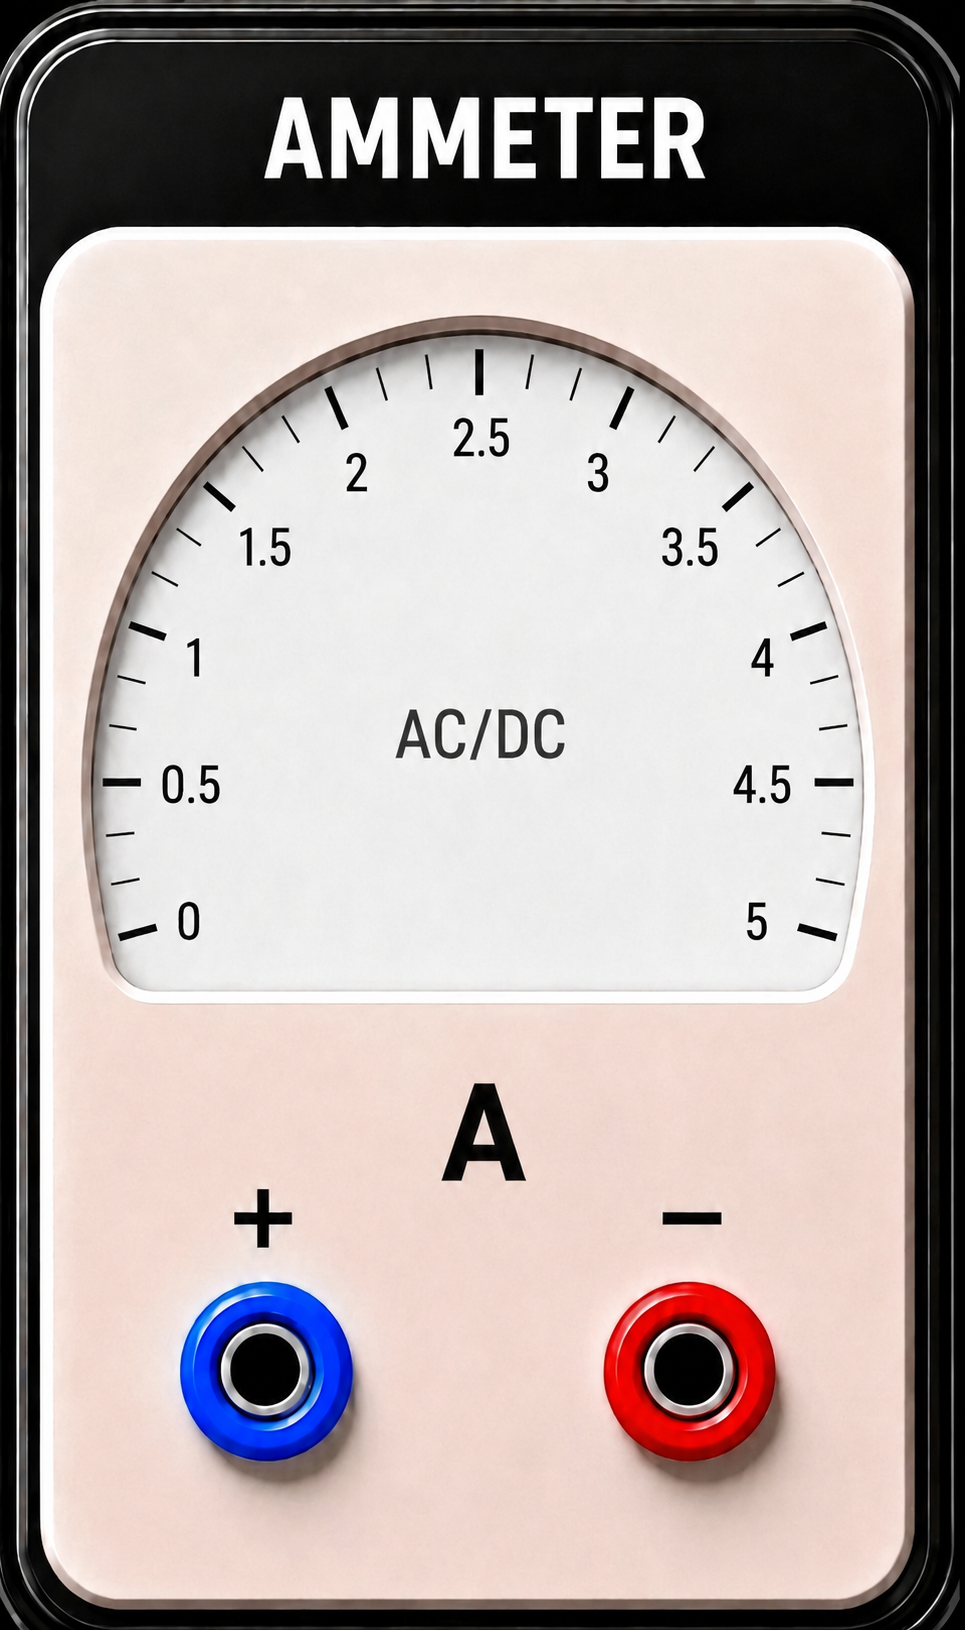
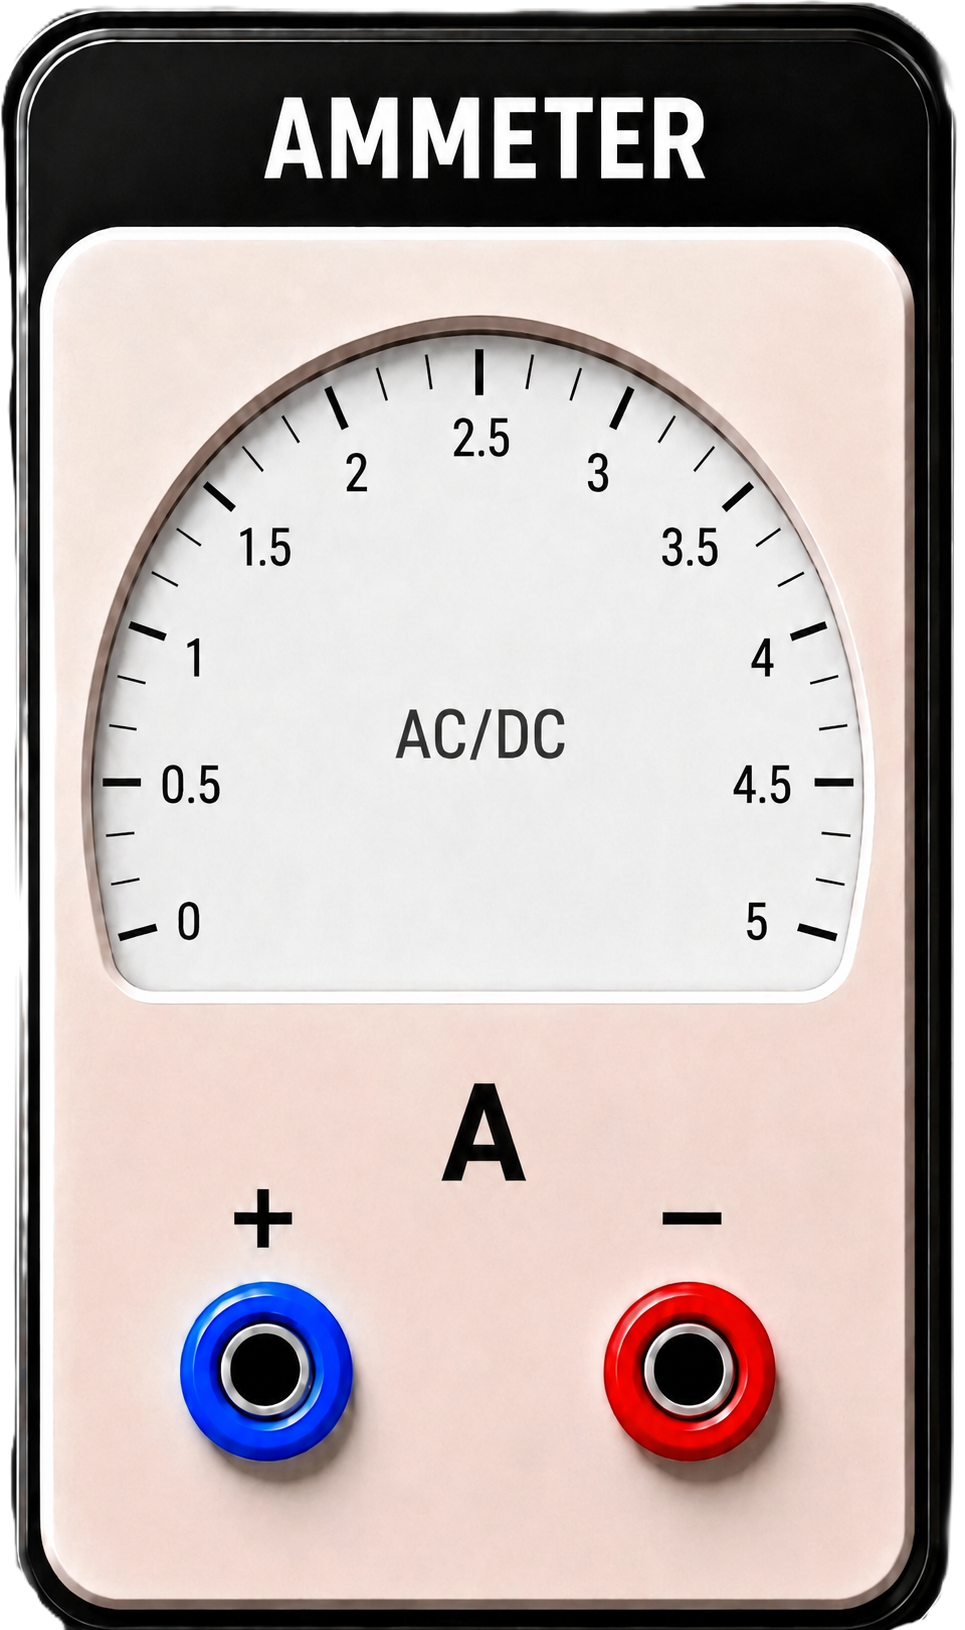
enforce connection cleanup before proceeding to next experiment case

Changed region(s): [[0.9016, 0.0, 1.0, 1.0], [0.0, 0.0, 0.8083, 1.0]]

diff --git a/src/App.css b/src/App.css
@@ -787,33 +787,61 @@
   transform: none;
 }
 
-/* .equipment-panel .ammeter + .ammeter {
-  margin-left: -42px;
-} */
+.multimeter-knob {
+  position: absolute;
 
-.ammeter--A1 {
-  --ammeter-needle-top: 111px;
-  --ammeter-needle-left: 97px;
-  --ammeter-needle-image-top: 3px;
-  --ammeter-needle-image-left: -8px;
-  --ammeter-needle-image-width: 70px;
+  /* Perfect alignment over the background dial center axis */
+  top: 50px;
+  left:10px;
+
+  /* Upscaled dimension to stretch the knob image to fit the background track */
+  width: 170px;
+  height: 100px;
+
+  z-index: 2;
+
+  display: flex;
+  align-items: center;
+  justify-content: center;
+
+  transform-origin: center center;
+  transition: transform 0.4s ease;
+}
+.multimeter-knob-image {
+  width: 60%;
+  height: 100%;
+  object-fit: fill;
+} 
+.multimeter-display {
+  position: absolute;
+
+  top: 30px;
+  left: 50%;
+
+  transform: translateX(-50%);
+
+  width: 120px;
+  height: 28px;
+
+  display: flex;
+  align-items: center;
+  justify-content: center;
+
+  font-family: 'Courier New', monospace;
+  font-size: 20px;
+  font-weight: 700;
+
+  color: #ff2b2b;
+
+  text-shadow:
+    0 0 4px rgba(255,0,0,0.7),
+    0 0 8px rgba(255,0,0,0.4);
+
+  letter-spacing: 0;
+
+  z-index: 5;
 }
 
-.ammeter--A2 {
-  --ammeter-needle-top: 110px;
-  --ammeter-needle-left: 102px;
-  --ammeter-needle-image-top: 3px;
-  --ammeter-needle-image-left: -8px;
-  --ammeter-needle-image-width: 70px;
-}
-
-.ammeter--A3 {
-  --ammeter-needle-top: 114px;
-  --ammeter-needle-left: 102px;
-  --ammeter-needle-image-top: 3px;
-  --ammeter-needle-image-left: -8px;
-  --ammeter-needle-image-width: 70px;
-}
 
 .ammeter::before {
   display: none;

diff --git a/src/components/DigitalMultimeter.jsx b/src/components/DigitalMultimeter.jsx
@@ -1,8 +1,21 @@
 import multimeterImg from '../assets/multimeter.png'
-
+import knobImg from '../assets/knob.png'
 const DigitalMultimeter = ({ value = 0 }) => {
   const resistance = Number.isFinite(value) ? value : 0
+let knobAngle = 0
 
+if (resistance > 0) {
+  if (resistance <= 200)
+    knobAngle = 40
+  else if (resistance <= 2000)
+    knobAngle = 70
+  else if (resistance <= 20000)
+    knobAngle = 100
+  else if (resistance <= 200000)
+    knobAngle = 130
+  else
+    knobAngle = 160
+}
   return (
     <article
       className="ammeter ammeter--multimeter"
@@ -14,7 +27,18 @@ const DigitalMultimeter = ({ value = 0 }) => {
         alt="Digital Multimeter"
         className="ammeter__image"
       />
-
+<div
+  className="multimeter-knob"
+  style={{
+    transform: `rotate(${knobAngle}deg)`
+  }}
+>
+  <img
+    src={knobImg}
+    alt="Knob"
+    className="multimeter-knob-image"
+  />
+</div>
       <span
         id="5-endpoint"
         className="connection-terminal connection-terminal--meter connection-terminal--meter-plus connection-terminal--endpoint-5"
@@ -41,18 +65,11 @@ const DigitalMultimeter = ({ value = 0 }) => {
         6
       </span>
 
-      <div
-        style={{
-          position: 'absolute',
-          top: '58px',
-          left: '50%',
-          transform: 'translateX(-50%)',
-          fontWeight: 'bold',
-          fontSize: '14px',
-        }}
-      >
-        {resistance.toFixed(2)}
-      </div>
+   <div className="multimeter-display">
+  {resistance > 0
+    ? `${resistance.toFixed(2)} Ω`
+    : '0.00 Ω'}
+</div>
     </article>
   )
 }

diff --git a/src/utils/jsPlumbWiring.js b/src/utils/jsPlumbWiring.js
@@ -350,7 +350,16 @@ export const autoConnectTheveninCircuit = (
   instance,
   experimentCase,
 ) => {
+  
+const totalConnections =
+  getAllConnections(instance).length
 
+if (totalConnections > 0) {
+  return {
+    success: false,
+    reason: 'REMOVE_CONNECTIONS_FIRST',
+  }
+}
   const connectPair = (a, b) => {
     if (hasConnectionBetween(instance, a, b)) return
 
@@ -385,4 +394,8 @@ export const autoConnectTheveninCircuit = (
     connectPair('4-endpoint', '12-endpoint')
     connectPair('13-endpoint', '14-endpoint')
   }
+
+  return {
+  success: true,
+}
 }

diff --git a/src/App.jsx b/src/App.jsx
@@ -206,11 +206,7 @@ const canGenerateReport = readingCount >= MIN_OBSERVATION_READINGS
   ])
 
  setMeasuredRth(readings.rth)
-
-setResetRequest(prev => prev + 1)
-
 setConnectionsVerified(false)
-
 setExperimentCase(2)
 }
 
@@ -223,11 +219,7 @@ else if (experimentCase === 2) {
   ])
 
    setMeasuredVth(readings.vth)
-
-setResetRequest(prev => prev + 1)
-
 setConnectionsVerified(false)
-
 setExperimentCase(3)
 }
 
@@ -240,6 +232,7 @@ else if (experimentCase === 3) {
   ])
 
   setMeasuredIl(readings.il)
+  setConnectionsVerified(false)
   setExperimentCase(4)
 }
   

diff --git a/src/components/ConnectionLab.jsx b/src/components/ConnectionLab.jsx
@@ -229,17 +229,27 @@ useEffect(() => {
     return
   }
 
+const result =
   autoConnectTheveninCircuit(
     instanceRef.current,
     experimentCase
   )
 
+if (!result?.success) {
+  showStepAlert({
+    title: 'Remove Existing Connections',
+    description:
+      'Please remove all current wire connections before proceeding to the next case.',
+    type: 'warning',
+  })
+
+  return
+}
+
   instanceRef.current.repaintEverything?.()
 
 }, [
   autoConnectRequest,
-  experimentCase,
-  resistancesConfigured,
 ])
 
   return (
